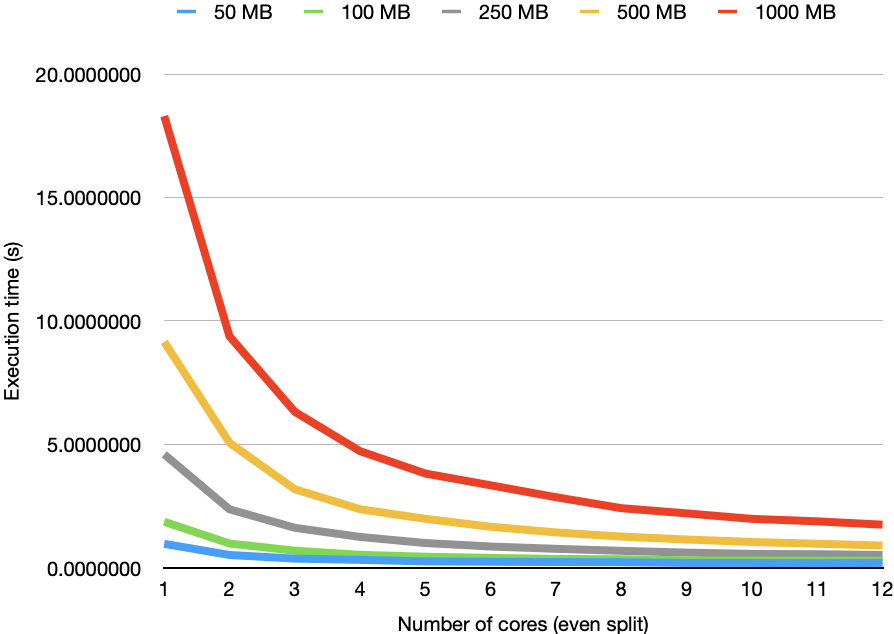
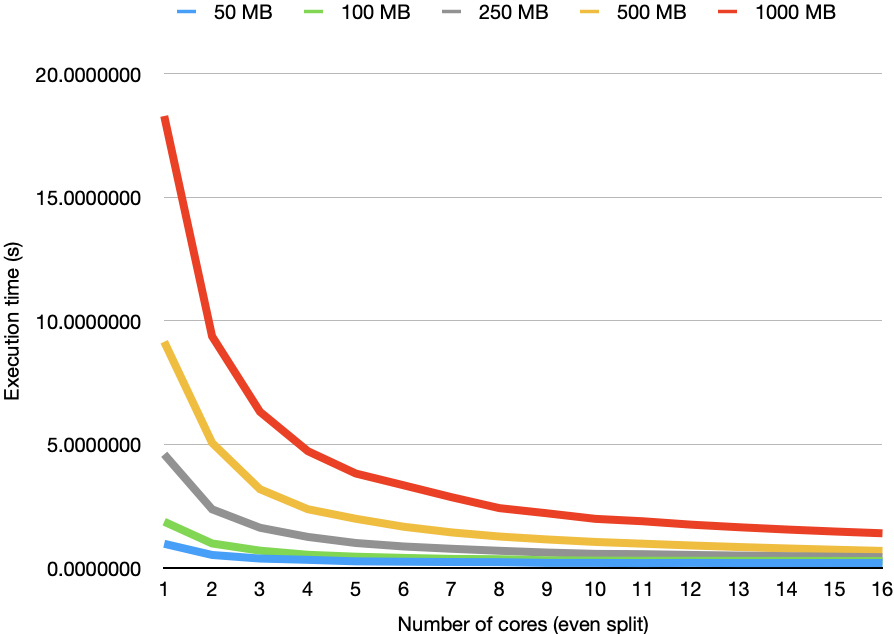
README finalized. Updated testing to 16 actual slots.

diff --git a/README.md b/README.md
@@ -28,9 +28,9 @@ I've considered three general ways of dividing the files between the processors:
 - Splitting based on file sizes
 
 The first one is not efficient enough when the filesize, which is the actual measure of input complexity, varies greatly between files in the directory, causing an uneven workload distribution, while the second one has problems when the line length is not the same between the files.
-The third one, while being slightly more difficult to implement, ensures a perfectly balanced workload distribution between each process.
+The third one, while being a bit more tricky, is a bit more suited to my interpretation of the problem. I believe the optimal solution should actually be a hybrid approach, because even targeting filesize only, the number of files could still be a source of unbalanced workload if, say, one file is so much bigger than the others.
 
-The problem this approach poses is that a single file could, theoretically, be processed by more than one process. So a word could be split between 2 processes, and thus, the final count would be wrong.
+All things aside, the problem this approach poses is that a single file could, theoretically, be processed by more than one process. So a word could be split between 2 processes, and thus, the final count would be wrong.
 
 To avoid this, synchronization logic must be inserted in the final solution, in order to recover the "missing word".
 
@@ -42,7 +42,7 @@ There are certainly other important aspects of the general solution: the use of 
 
 ### wordcount.c
 
-The main executable has a very simple structure, omitting the details regarding args parsing and MPI Initialization.
+The main file has a very simple structure.
 I'll give you a bird-eye look at what the main does, and then go into details in the following sections.
 
 The first thing we do is commit an MPI_Datatype, histogram_element_dt, which is used to transfer the local results to the master at the end of the program.
@@ -54,9 +54,9 @@ The first thing we do is commit an MPI_Datatype, histogram_element_dt, which is 
 
 Then, we proceed to analyze the files in the directory passed as an argument, creating a list of file elements.
 
-This list of files is used to generate the workload, which is done independently by each processor, to avoid wasting time waiting for the master to finish. This can be done assuming that the generated list of files maintains the same order, which is true if all processors run on the same OS.
+This list of files is used to generate the workload, which is done independently by each processor, to avoid wasting time waiting for the master to finish. This can be done assuming that the generated list of files maintains the same order, which is true if all processors run on the same OS and we already know which files we are analyzing.
 
-To generalize this behaviour, we can simply sort the file list before generating the workload.
+To generalize this behaviour for multi-OS clusters, we can simply sort the file list before generating the workload, and if the number of files isn't the "dominant" metric, it should not be a problem. As always, the specific optimization depends on the use case.
 
 Details on workload generation can be found in the following section.
 
@@ -286,6 +286,8 @@ diff -s output1s output3s
 The utility has been tested using a cluster of machines, via Google Cloud.
 
 I've used 3 e2-standard-8 machines, for a total of 24 vCPUs, to perform strong scalability tests with a fixed number of bytes as input and varying the number of processors.
+Subsequently, I've used 4 e2-standard-8 machines, for a total of 32 vCPUs and 16 actual slots, after the regional limit was increased.
+
 Tests were done using a fair workload, automatically generated using the scripts found in the directory, to ensure reliable results.
 The scripts supplied in the repo are meant for easy local testing. To adapt them in a clustered environment, make sure that every node has the same test directory. (For example, create it in the master and then send it to all the other nodes)
 
@@ -303,13 +305,11 @@ Here's a chart representing just that:
 There's something strange happening to the algorithm, as soon as we go from 4 processes to 5.
 It briefly worsens its performance, then starts scaling again but it's a bit slower than before.
 After quite a bit of testing and fiddling with google cloud VMs, I've discovered that the number of vCPUs isn't the actual core number of the CPU.
-While this explains a lot of things, we cannot be sure of the exact behaviour of the environment, but this is my guess, and below you will find further evidence that it may not be that far from the truth.
-
 In reality, vCPUs are computed as no. of Cores times no. of Threads per core.
 
 This means that in e2-standard-8 VMs, there are actually 4 cores and 2 threads per CPU.
 Based on this assumption, my guess, which is also backed up by further evidence, is that as soon as we go from 4 processes to 5, MPI is basically oversubscribing the 4 cores he can actually see, thus worsening relative performance compared to a situation where each process can work on a separate core.
-I've performed similar tests on e2-standard-4 machines, and guess what? On those machines, the threshold after which the strange behaviour happens is no longer 4, but 2...just like the number of actual cores in that case!
+I've performed similar tests on e2-standard-4 machines, and the behaviour is the same, this time the bottleneck is at 2 cores instead of 4.
 
 Another thing is that, with an e2-standard-8 machine, simply running mpirun -np x with x > 4, without explicit oversubscribing, results in the following error:
 
@@ -358,11 +358,9 @@ Nonetheless, here's a table that summarizes results, in terms of speedup, when w
 | 24         | 1.434171  | 12.810077 |
 
 Even with what we previously said, the algorithm doesn't show a bad performance at all. It manages to have a pretty decent and steady speedup. But it's clear how our considerations impact its performance. So I wanted to see what would happen If, instead of using all the vCPUs on the machines, I'd only use the actual cores.
+Initially the regional limit was 24 vCPUs, but I managed to get it increased to 32 vCPUs, to reach 16 actual cores in my testing.
 
-This would mean that, with 3 e2-standard-8 machines, the total number of actual cores would be 12.
-(Be aware of the fact that I only stopped at 24 vCPUs because there's a regional limit on how many vCPUs you can have active)
-
-Guess what happens when you only use the actual cores, which is -np 4, in this case, for every machine? It literally flies.
+When you only use the actual cores, which is -np 4, in this case, for every machine, it literally flies.
 
 ![Strong Scaling](data/imgs/cores_strong_scaling_dark.png#gh-dark-mode-only)
 ![Strong Scaling](data/imgs/cores_strong_scaling_light.png#gh-light-mode-only)
@@ -383,17 +381,16 @@ As we can see, by varying the size of the input, we get stronger gains, relative
 | 10         | 1.9778902  | 9.2501585  |
 | 11         | 1.8789884  | 9.7370467  |
 | 12         | 1.7424422  | 10.5000888 |
+| 13         | 1.6379872  | 11.1763687 |
+| 14         | 1.5454143  | 11.8410921 |
+| 15         | 1.4645716  | 12.4991484 |
+| 16         | 1.3920819  | 13.1371115 |
 
-This time, the speedup for 12 processors is 10.5, which is much closer to 12, against the 7.4 we obtained previously!
+This time, the speedup for 16 processors is 13.1, which is much closer to 16, against the 9.4 we obtained previously!
 
 Here's a chart to better visualize it:
 ![Speedup Compare](data/imgs/speedup_compare_dark.png#gh-dark-mode-only)
 ![Speedup Compare](data/imgs/speedup_compare_light.png#gh-light-mode-only)
-The dip when we go over the actual number of slots per machine is even more apparent.
-
-After even more fiddling, I've discovered that you can change the ratio between vCPUS and actual cores to 1/1, and create custom machines that utilize 8 full cores.
-
-But this, sadly, doesn't solve the problem, as Google Cloud still bills you like there's double the amount of vCPUs, and it affects regional limits, thus making it impossible to have 24 actual cores. What I mean is, if I configure a custom machine with 4 cores and 1 vCPU per core, in order to make htop and MPI see all slots available, it still counts in regional limits as 8 vCPUs. And the same reasoning applies If I want to configure a machine with 8 cores. So If I configure, for example, 3 machines with 4 actual cores and 1 vCPU per core, Google Cloud still thinks I've used 24 vCPUs, even if there are actually 12 slots, and we're back to square one.“
 
 ### Weak Scalability
 
@@ -403,18 +400,22 @@ The results of the weak scalability testing are summarised in the following tabl
 
 | PROCESSORS |  TIME     | Efficiency  |
 |------------|-----------|-------------|
-| 1          | 1,0294909 | 100,0000000 |
-| 2          | 1,0707393 | 96,1476711  |
-| 3          | 1,0867302 | 94,7328877  |
-| 4          | 1,0892999 | 94,5094092  |
-| 5          | 1,0985009 | 93,7178021  |
-| 6          | 1,1132747 | 92,4741126  |
-| 7          | 1,1176962 | 92,1082938  |
-| 8          | 1,1435514 | 90,0257653  |
-| 9          | 1,1468319 | 89,7682476  |
-| 10         | 1,1502241 | 89,5035063  |
-| 11         | 1,1570636 | 88,9744436  |
-| 12         | 1,1605109 | 88,7101448  |
+| 1          | 1.0294909 | 100.000000 |
+| 2          | 1.0707393 | 96.147671  |
+| 3          | 1.0867302 | 94.732887  |
+| 4          | 1.0892999 | 94.509409  |
+| 5          | 1.0985009 | 93.717802  |
+| 6          | 1.1132747 | 92.474112  |
+| 7          | 1.1176962 | 92.108293  |
+| 8          | 1.1435514 | 90.025765  |
+| 9          | 1.1468319 | 89.768247  |
+| 10         | 1.1502241 | 89.503506  |
+| 11         | 1.1570636 | 88.974443  |
+| 12         | 1.1605109 | 88.710144  |
+| 13         | 1.1639711 | 88.452464  |
+| 14         | 1.1674517 | 88.199203  |
+| 15         | 1.1709529 | 87.948601  |
+| 16         | 1.1744749 | 87.700572  |
 
 As we can see, with medium filesizes the efficiency tends to stay above 90%, although it steadily drops when we increase the number of processors, due to communication overhead, keeps steadily dropping the more we increase the number of processes.
 Here's a chart to better visualize this result:
@@ -424,7 +425,7 @@ Here's a chart to better visualize this result:
 
 We can see how the algorithm might be improved, in terms of efficiency, to handle workloads without excessive communication between workers.
 
-Right now, the efficiency is tolerable, but depending on the context of the application, there are certainly a lot of things we can fine-tune to reach optimal efficiency.
+Right now, the efficiency is ok as it tends to hoover around 85%, but depending on the context of the application, there are certainly a lot of things we can fine-tune to reach optimal efficiency.
 
 For example, we could implement a way to avoid making each process communicate to recover the split words, by implementing a way to make each process "peek" forward or backwards. Such a solution would reduce communication to what is strictly necessary (gathering of partial results) and possibly increase efficiency as the number of processors increases.
 
